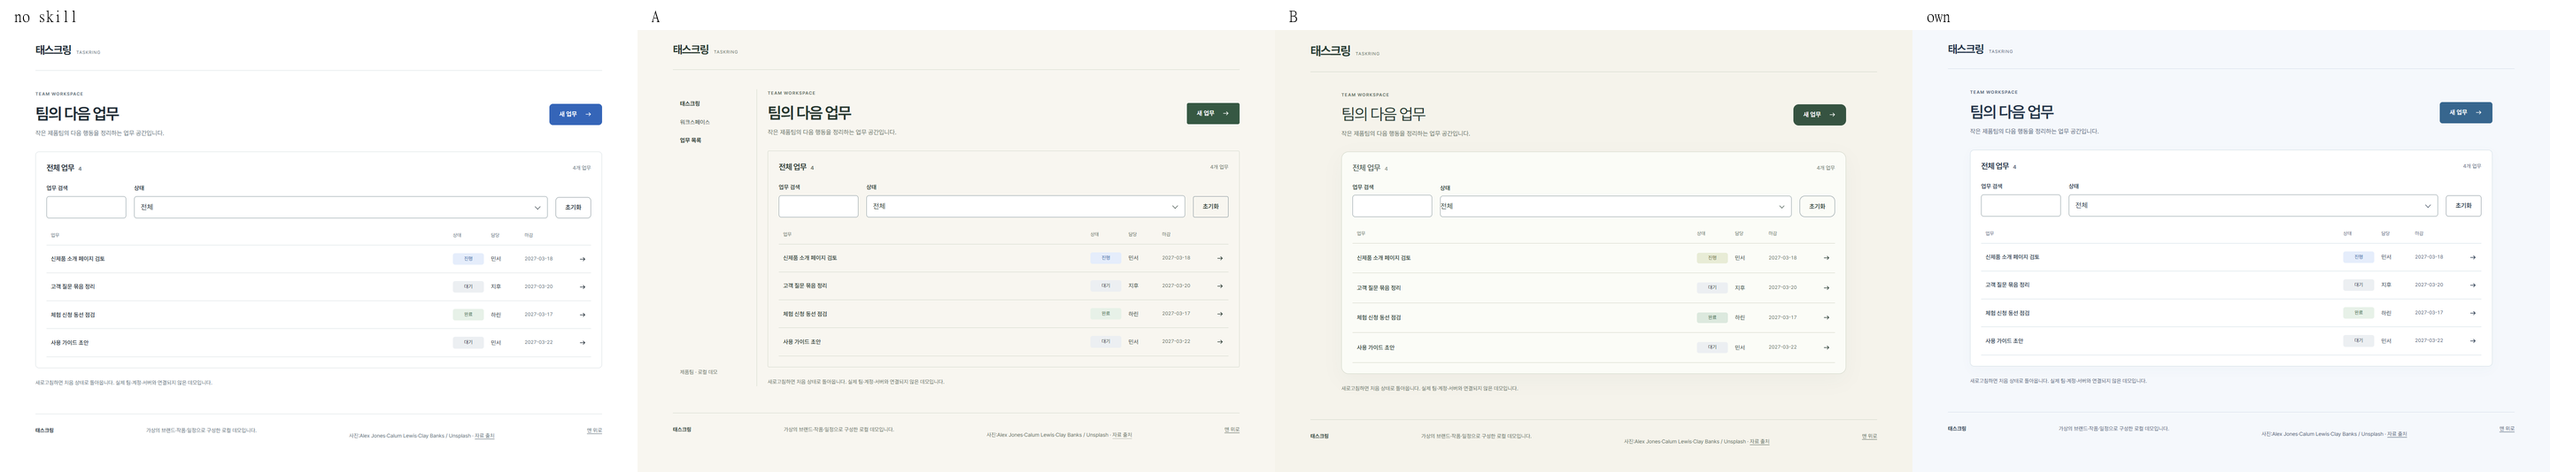
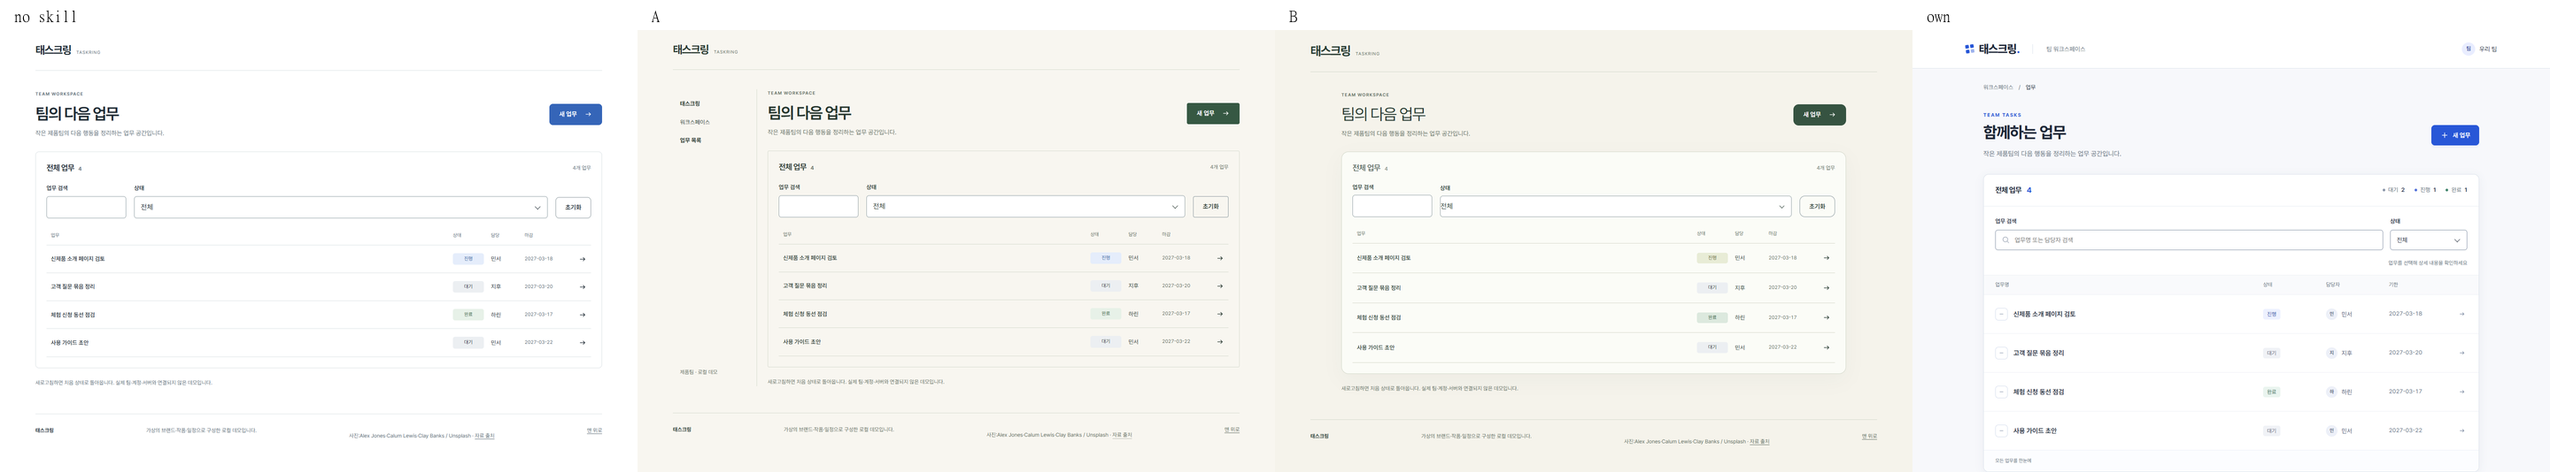
Restore the approved pre-publication SaaS layout and palette

diff --git a/results/own/saas/index.html b/results/own/saas/index.html
@@ -1,1 +1,1 @@
-<!doctype html><html lang="ko" data-motion><head><meta charset="utf-8"><meta name="viewport" content="width=device-width,initial-scale=1"><meta name="description" content="태스크링 — 작은 제품팀의 다음 행동을 정리하는 업무 공간입니다."><title>태스크링 — 해야 할 일을, 함께 끝내는 방식.</title><link rel="stylesheet" href="../../../shared/fonts/fonts.css"><link rel="stylesheet" href="../../../src/base.css"><link rel="stylesheet" href="../../../src/own.css"></head><body data-group="own" data-category="saas"><a href="#main" class="skip">본문으로 건너뛰기</a><header class="site-header"><a class="logo" href="#"><strong>태스크링</strong><span>TASKRING</span></a></header><main id="main"><div class="app-layout"><aside class="workspace-nav"><strong>태스크링</strong><span>워크스페이스</span><b>업무 목록</b><small>제품팀 · 로컬 데모</small></aside><section class="task-app"><div class="app-heading"><div><p class="eyebrow">TEAM WORKSPACE</p><h1>팀의 다음 업무</h1><p>작은 제품팀의 다음 행동을 정리하는 업무 공간입니다.</p></div><button id="add-task" class="btn">새 업무<svg class="icon arrow" viewBox="0 0 24 24" fill="none" stroke="currentColor" aria-hidden="true"><path d="M5 12h14m-5-5 5 5-5 5"/></svg></button></div><div class="task-panel"><div class="panel-heading"><h2>전체 업무 <span id="task-count">4</span></h2><p id="result-count" role="status"></p></div><div class="toolbar"><div class="field"><label for="search">업무 검색</label><input id="search" type="search" autocomplete="off" aria-describedby="search-error"><p class="error" id="search-error" role="alert"></p></div><div class="field"><label for="filter">상태</label><div class="select-wrap"><select id="filter" aria-describedby="filter-error"><option value="전체">전체</option><option value="대기">대기</option><option value="진행">진행</option><option value="완료">완료</option></select></div><p class="error" id="filter-error" role="alert"></p></div><button id="reset-filter" class="btn secondary">초기화</button></div><div class="task-head" aria-hidden="true"><span>업무</span><span>상태</span><span>담당</span><span>마감</span><span></span></div><div id="task-list"></div><div id="empty" class="empty" hidden><h3>일치하는 업무가 없습니다.</h3><p>검색어나 상태를 바꾸거나 초기화해 주세요.</p></div></div><p class="small muted">새로고침하면 처음 상태로 돌아옵니다. 실제 팀·계정·서버와 연결되지 않은 데모입니다.</p></section></div></main><footer class="site-footer"><strong>태스크링</strong><p>가상의 브랜드·작품·일정으로 구성한 로컬 데모입니다.</p><p class="small">사진:Alex Jones·Calum Lewis·Clay Banks / Unsplash · <a href="../../../docs/ASSETS.md" target="_blank" rel="noopener">자료 출처</a></p><a href="#main">맨 위로</a></footer><dialog id="detail-dialog" aria-labelledby="dialog-title"><div class="dialog-shell"><header class="dialog-head"><h2 id="dialog-title"></h2><button id="dialog-close" class="icon-button" aria-label="닫기" type="button"><svg class="icon" viewBox="0 0 24 24" fill="none" stroke="currentColor" aria-hidden="true"><path d="m6 6 12 12M6 18 18 6"/></svg></button></header><div id="dialog-body" class="dialog-body" tabindex="0"></div><footer id="dialog-actions" class="dialog-actions"></footer></div></dialog><script type="application/json" id="site-data">{"name":"태스크링","latin":"TASKRING","headline":"해야 할 일을, 함께 끝내는 방식.","intro":"작은 제품팀의 다음 행동을 정리하는 업무 공간입니다.","tasks":[{"id":"t1","title":"신제품 소개 페이지 검토","owner":"민서","status":"진행","date":"2027-03-18"},{"id":"t2","title":"고객 질문 묶음 정리","owner":"지후","status":"대기","date":"2027-03-20"},{"id":"t3","title":"체험 신청 동선 점검","owner":"하린","status":"완료","date":"2027-03-17"},{"id":"t4","title":"사용 가이드 초안","owner":"민서","status":"대기","date":"2027-03-22"}]}</script><script type="module" src="../../../src/app.js"></script></body></html>
+<!doctype html><html lang="ko"><head><meta charset="utf-8"><meta name="viewport" content="width=device-width,initial-scale=1"><title>태스크링 · 업무</title><link rel="stylesheet" href="../../../shared/fonts/fonts.css"><link rel="stylesheet" href="../../../src/base.css"><link rel="stylesheet" href="../../../src/saas.css"></head><body data-group="own" data-category="saas"><a class="skip" href="#main">업무 목록으로 건너뛰기</a><header class="topbar"><div class="topinner"><a class="brand" href="#main"><span class="brandmark" aria-hidden="true"><i></i><i></i><i></i><i></i></span>태스크링<span class="brand-dot">.</span></a><span class="workspace">팀 워크스페이스</span><span class="profile"><span class="avatar">팀</span>우리 팀</span></div></header><main id="main"><div class="breadcrumb">워크스페이스 <span aria-hidden="true">/</span><strong>업무</strong></div><section class="task-app"><div class="page-heading"><div><p class="eyebrow">TEAM TASKS</p><h1>함께하는 업무</h1><p class="intro">작은 제품팀의 다음 행동을 정리하는 업무 공간입니다.</p></div><button id="add-task" class="btn"><svg viewBox="0 0 24 24" fill="none" stroke="currentColor" aria-hidden="true"><path d="M12 5v14M5 12h14"/></svg><span>새 업무</span></button></div><div class="task-panel"><div class="panel-heading"><h2>전체 업무 <span id="task-count">4</span></h2><div id="state-counts" class="counts" aria-label="전체 업무 상태별 건수"></div></div><div class="toolbar"><div class="search-field field"><label for="search">업무 검색</label><div class="search-wrap"><svg viewBox="0 0 24 24" fill="none" stroke="currentColor" aria-hidden="true"><circle cx="10.5" cy="10.5" r="6.5"/><path d="m16 16 4 4"/></svg><input id="search" type="search" placeholder="업무명 또는 담당자 검색" autocomplete="off"></div></div><div class="status-field field"><label for="filter">상태</label><div class="select-wrap"><select id="filter"><option>전체</option><option>대기</option><option>진행</option><option>완료</option></select></div></div></div><div class="list-caption"><span id="result-count" role="status"></span><span>업무를 선택해 상세 내용을 확인하세요</span><button id="reset-filter" class="text-button">초기화</button></div><div class="task-head" aria-hidden="true"><span>업무명</span><span>상태</span><span>담당자</span><span>기한</span><span></span></div><div id="task-list"></div><div id="empty" class="empty" hidden><h3>일치하는 업무가 없어요</h3><p>검색어나 상태를 바꿔 다시 찾아보세요.</p></div><div class="panel-bottom">모든 업무를 한눈에</div></div><div class="local-notice"><div class="notice-group"><svg viewBox="0 0 24 24" fill="none" stroke="currentColor" aria-hidden="true"><circle cx="12" cy="12" r="9"/><path d="M12 11v6M12 7v1"/></svg><p>로컬 데모입니다. 실제 팀·계정·서버에 연결되지 않으며, 새로고침하면 초기화됩니다.</p></div></div></section><footer class="task-footer"><strong>태스크링</strong><span>우리 팀의 일, 조금 더 명료하게.</span></footer></main><dialog id="detail-dialog" aria-labelledby="dialog-title"><div class="dialog-shell"><header class="dialog-head"><h2 id="dialog-title"></h2><button id="dialog-close" class="icon-button" aria-label="닫기" type="button"><svg viewBox="0 0 24 24" fill="none" stroke="currentColor" aria-hidden="true"><path d="m6 6 12 12M6 18 18 6"/></svg></button></header><div id="dialog-body" class="dialog-body" tabindex="0"></div><footer id="dialog-actions" class="dialog-actions"></footer></div></dialog><script type="application/json" id="site-data">{"name":"태스크링","latin":"TASKRING","headline":"해야 할 일을, 함께 끝내는 방식.","intro":"작은 제품팀의 다음 행동을 정리하는 업무 공간입니다.","tasks":[{"id":"t1","title":"신제품 소개 페이지 검토","owner":"민서","status":"진행","date":"2027-03-18"},{"id":"t2","title":"고객 질문 묶음 정리","owner":"지후","status":"대기","date":"2027-03-20"},{"id":"t3","title":"체험 신청 동선 점검","owner":"하린","status":"완료","date":"2027-03-17"},{"id":"t4","title":"사용 가이드 초안","owner":"민서","status":"대기","date":"2027-03-22"}]}</script><script type="module" src="../../../src/app.js"></script></body></html>

diff --git a/src/saas.css b/src/saas.css
@@ -1,0 +1,12 @@
+/* 승인된 흰 상단바·파란 행동색·간결한 업무 비교 면을 유지한다. */
+body{--paper:#f7f8fb;--ink:#202939;--muted:#657184;--accent:#2857d7;--line:#dce2eb;--soft:#f0f3fa;background:var(--paper);color:var(--ink);font:16px/1.6 Pretendard,system-ui,sans-serif}
+.topbar{background:#fff;border-bottom:1px solid var(--line)}.topinner{max-width:1280px;margin:auto;padding:22px 40px;display:flex;align-items:center;gap:30px}.brand{display:flex;align-items:center;gap:9px;font-size:26px;font-weight:800;letter-spacing:-1.4px;text-decoration:none}.brand-dot{color:var(--accent);margin-left:-8px}.brandmark{display:grid;grid-template-columns:repeat(2,8px);gap:3px;transform:rotate(-8deg);margin-right:2px}.brandmark i{width:8px;height:8px;background:var(--accent);border-radius:2px}.brandmark i:last-child{opacity:.45}.workspace{border-left:1px solid var(--line);padding-left:30px;font-size:14px;color:var(--muted)}.profile{margin-left:auto;display:flex;align-items:center;gap:9px;font-size:14px}.avatar{display:grid;place-items:center;width:30px;height:30px;border-radius:50%;background:#e9edff;color:#3c52a2;font-size:12px;font-weight:600;flex:none}
+#main{max-width:1200px;margin:auto;padding:33px 40px 24px}.breadcrumb{display:flex;gap:12px;font-size:13px;color:var(--muted);margin-bottom:44px}.breadcrumb strong{font-weight:500;color:#333f52}.page-heading{display:flex;align-items:center;justify-content:space-between;gap:24px;margin-bottom:34px}.eyebrow{font-size:11px;letter-spacing:1.8px;font-weight:700;color:var(--accent);margin-bottom:7px}.page-heading h1{font-size:36px;line-height:1.3;letter-spacing:-1.2px;font-weight:750}.intro{margin-top:12px;color:var(--muted);font-size:15px}.btn{min-height:46px;padding:10px 19px;border-radius:8px;font-size:14px;line-height:1.5;gap:8px;font-weight:600;transition:background-color .15s,box-shadow .15s}.btn svg,.notice-group svg{width:20px;height:20px;flex:none;stroke-width:1.7}.btn:not(.secondary){box-shadow:0 3px 5px #2857d718}.btn:not(.secondary):hover{background:#1a43b6}.page-heading>.btn{flex:none}.btn.secondary{background:#fff;border-color:#8491a6}
+.task-panel{padding:0;background:#fff;border:1px solid var(--line);border-radius:12px;box-shadow:0 4px 20px #223d6510;margin:0}.panel-heading{margin:0;padding:24px 26px;border-bottom:1px solid #e8ecf2;gap:20px}.panel-heading h2{font-size:17px;font-weight:700}.panel-heading h2 span{margin-left:9px;color:var(--accent);font-size:17px}.counts{display:flex;gap:22px;font-size:13px;color:var(--muted);flex-wrap:wrap}.counts>span{display:inline-flex;gap:7px;align-items:center}.counts b{color:#334057;font-weight:650}.count-dot{display:block;width:6px;height:6px;border-radius:50%;background:#8c97a9;flex:none}.dot-1{background:#5573d9}.dot-2{background:#43866d}
+.toolbar{display:grid;grid-template-columns:minmax(0,1fr) 174px;padding:24px 26px 20px;gap:16px;margin:0;align-items:end}.toolbar .field{margin:0;min-width:0}.toolbar label{font-size:13px;margin-bottom:8px}.toolbar input,.toolbar select{min-height:46px;font-size:14px;border-color:#8491a6}.search-wrap{position:relative}.search-wrap svg{position:absolute;left:14px;top:50%;transform:translateY(-50%);width:20px;height:20px;color:#69788f}.search-wrap input{padding-left:43px}.list-caption{padding:0 26px 17px;display:flex;gap:20px;align-items:center;color:#657184;font-size:12px}.list-caption>span:nth-child(2){margin-left:auto}.list-caption .text-button{min-height:32px;padding:3px 0;font-size:12px}.task-head,.task-row{display:grid;grid-template-columns:minmax(0,1fr) 130px 130px 145px 20px;gap:12px;align-items:center}.task-head{background:#f9fafc;border-top:1px solid #edf0f5;border-bottom:1px solid #edf0f5;padding:12px 26px;font-size:12px;color:var(--muted)}.task-row{padding:24px 26px;min-height:88px;border-bottom:1px solid #edf0f5;background:#fff}.task-row:hover{background:#f7f9ff}.task-row .task-title{display:flex;align-items:center;gap:13px;font-weight:600;font-size:15px;min-width:0;overflow-wrap:anywhere}.task-title:before{content:'';width:26px;height:26px;border:1px solid #d5ddec;border-radius:7px;flex:none;background:linear-gradient(#8492aa,#8492aa) center/8px 1px no-repeat}.status{width:fit-content;padding:3px 9px;background:#f0f2f6;color:#596578;font-size:12px;line-height:1.5}.status-1{background:#edf1ff;color:#3755b1}.status-2{background:#eaf4ef;color:#386f59}.owner{font-size:14px;color:#536178;display:flex;gap:9px;align-items:center}.owner:before{content:'';width:26px;height:26px;border-radius:50%;background:#edf0f8;flex:none}.task-row time{font-size:13px;color:#66738a}.task-row>.arrow{width:16px;color:#7c8aa1}.panel-bottom{display:flex;gap:16px;flex-wrap:wrap;padding:15px 26px;font-size:11px;color:#657184;background:#fcfdff;border-radius:0 0 12px 12px}
+.local-notice{margin-top:24px;display:flex;justify-content:center}.notice-group{display:flex;align-items:flex-start;gap:8px;max-width:100%;width:fit-content;color:#687489;font-size:12px;line-height:1.6}.notice-group svg{height:1.6em;width:15px}.notice-group p{min-width:0}.task-footer{margin-top:72px;padding-top:22px;border-top:1px solid var(--line);display:flex;justify-content:space-between;gap:20px;font-size:12px;color:#657184}.task-footer strong{flex:none}.empty{padding:45px 20px;text-align:center}
+#detail-dialog{width:min(540px,calc(100% - 32px));background:#fff;border-color:var(--line);border-radius:14px}.dialog-head{padding:25px 26px 20px}.dialog-head h2{font-size:21px}.dialog-body{padding:23px 26px 26px}.dialog-body .field{margin-bottom:20px}.dialog-body .btn[type=submit]{margin-top:10px}.dialog-body .summary{background:#f7f8fb;padding:0 18px;border-radius:8px}.dialog-actions{background:#fff}.dialog-body label{display:block;font-size:13px;font-weight:600;margin-bottom:8px}
+@media(max-width:900px){.task-head,.task-row{grid-template-columns:minmax(0,1fr) 100px 90px 110px 16px;gap:10px}.counts{gap:13px}.topinner{padding:20px 28px}#main{padding-inline:28px}}
+@media(max-width:767px){.topinner{padding:17px 20px;gap:18px}.workspace{display:none}.profile{font-size:12px}.brand{font-size:24px}#main{padding:24px 20px}.breadcrumb{margin-bottom:30px}.page-heading{align-items:flex-start;flex-wrap:wrap;gap:20px;margin-bottom:26px}.page-heading h1{font-size:30px}.intro{font-size:14px}.panel-heading{padding:20px;align-items:flex-start;flex-direction:column;gap:15px}.counts{gap:18px}.toolbar{grid-template-columns:minmax(0,1fr);padding:20px;gap:15px}.list-caption{padding:0 20px 16px;flex-wrap:wrap}.list-caption>span:nth-child(2){display:none}.list-caption .text-button{margin-left:auto}.task-head{display:none}.task-row{grid-template-columns:minmax(0,1fr) auto;padding:21px 20px;gap:13px}.task-title{grid-column:1/-1}.status{grid-column:2;grid-row:2}.owner{grid-column:1;grid-row:2}.task-row time{grid-column:1;grid-row:3;margin-left:39px}.task-row>.arrow{display:none}.panel-bottom{padding-inline:20px}.local-notice{justify-content:flex-start}.task-footer{margin-top:48px;align-items:start}.dialog-head,.dialog-body{padding:20px}}
+@media(prefers-reduced-motion:no-preference){.btn:active{transform:translateY(1px)}#detail-dialog[open]{animation:saas-dialog .2s cubic-bezier(.22,.61,.36,1)}@keyframes saas-dialog{from{opacity:0;transform:translateY(6px)}to{opacity:1;transform:none}}}
+.owner:before{content:attr(data-initial);display:grid;place-items:center;font-size:11px;font-weight:600;color:#4c5873}.toolbar .select-wrap{width:100%}

diff --git a/results/b/brand/index.html b/results/b/brand/index.html
@@ -34,7 +34,7 @@ if(category==='brand'){
  document.addEventListener('click',e=>{const opener=e.target.closest('[data-open]'),save=e.target.closest('[data-save]');if(opener)detail(opener.dataset.open,opener);if(save){saved.has(save.dataset.save)?saved.delete(save.dataset.save):saved.add(save.dataset.save);count()}});$('#saved-open').onclick=e=>wishlist(e.currentTarget);
 }
 if(category==='saas'){
- function render(){const query=$('#search').value.trim().toLocaleLowerCase(),status=$('#filter').value,visible=tasks.filter(t=>(status==='전체'||t.status===status)&&`${t.title} ${t.owner}`.toLocaleLowerCase().includes(query));$('#task-count').textContent=tasks.length;$('#result-count').textContent=visible.length+'개 업무';$('#empty').hidden=visible.length>0;$('#task-list').innerHTML=visible.map(t=>`<button class="task-row" data-task="${t.id}"><span class="task-title">${escape(t.title)}</span><span class="status status-${['대기','진행','완료'].indexOf(t.status)}">${t.status}</span><span class="owner">${escape(t.owner)}</span><time>${t.date}</time>${arrow}</button>`).join('');$('#task-list').querySelectorAll('[data-task]').forEach(b=>b.onclick=()=>editTask(b.dataset.task,b))}
+ function render(){const query=$('#search').value.trim().toLocaleLowerCase(),status=$('#filter').value,visible=tasks.filter(t=>(status==='전체'||t.status===status)&&`${t.title} ${t.owner}`.toLocaleLowerCase().includes(query));$('#task-count').textContent=tasks.length;if($('#state-counts'))$('#state-counts').innerHTML=['대기','진행','완료'].map((state,i)=>`<span><i class="count-dot dot-${i}" aria-hidden="true"></i>${state}<b>${tasks.filter(t=>t.status===state).length}</b></span>`).join('');$('#result-count').textContent=visible.length+'개 업무';if($('#state-counts')){const filtered=query!==''||status!=='전체';$('#result-count').hidden=!filtered;$('#reset-filter').hidden=!filtered;}$('#empty').hidden=visible.length>0;$('#task-list').innerHTML=visible.map(t=>`<button class="task-row" data-task="${t.id}"><span class="task-title">${escape(t.title)}</span><span class="status status-${['대기','진행','완료'].indexOf(t.status)}">${t.status}</span><span class="owner" data-initial="${escape(t.owner.slice(0,1))}">${escape(t.owner)}</span><time>${t.date}</time>${arrow}</button>`).join('');$('#task-list').querySelectorAll('[data-task]').forEach(b=>b.onclick=()=>editTask(b.dataset.task,b))}
  function editTask(id,trigger){const t=tasks.find(t=>t.id===id);open(t.title,summary([['담당',t.owner],['마감',t.date]])+`<label for="task-status">업무 상태</label><div class="select-wrap"><select id="task-status">${['대기','진행','완료'].map(s=>`<option ${s===t.status?'selected':''}>${s}</option>`).join('')}</select></div>`,button('상태 저장','save-status'),trigger);$('#save-status').onclick=()=>{t.status=$('#task-status').value;render();close();$('#search').focus({preventScroll:true})}}
  $('#search').oninput=render;$('#filter').onchange=render;$('#reset-filter').onclick=()=>{$('#search').value='';$('#filter').value='전체';render()};$('#add-task').onclick=e=>{open('새 업무',`<form id="new-task" novalidate>${field('task-title','업무 제목','input')}${field('task-owner','담당','select',['민서','지후','하린'])}${field('new-status','업무 상태','select',['대기','진행','완료'])}${field('task-date','마감일','input',[],'date')}<button class="btn" type="submit">업무 추가</button></form>`,'',e.currentTarget);$('#new-task').onsubmit=e=>{e.preventDefault();if(!validate(e.currentTarget))return;tasks.push({id:'t'+Date.now(),title:$('#task-title').value.trim(),owner:$('#task-owner').value,status:$('#new-status').value,date:$('#task-date').value});$('#search').value='';$('#filter').value='전체';render();close()}};render();
 }

diff --git a/results/b/event/index.html b/results/b/event/index.html
@@ -34,7 +34,7 @@ if(category==='brand'){
  document.addEventListener('click',e=>{const opener=e.target.closest('[data-open]'),save=e.target.closest('[data-save]');if(opener)detail(opener.dataset.open,opener);if(save){saved.has(save.dataset.save)?saved.delete(save.dataset.save):saved.add(save.dataset.save);count()}});$('#saved-open').onclick=e=>wishlist(e.currentTarget);
 }
 if(category==='saas'){
- function render(){const query=$('#search').value.trim().toLocaleLowerCase(),status=$('#filter').value,visible=tasks.filter(t=>(status==='전체'||t.status===status)&&`${t.title} ${t.owner}`.toLocaleLowerCase().includes(query));$('#task-count').textContent=tasks.length;$('#result-count').textContent=visible.length+'개 업무';$('#empty').hidden=visible.length>0;$('#task-list').innerHTML=visible.map(t=>`<button class="task-row" data-task="${t.id}"><span class="task-title">${escape(t.title)}</span><span class="status status-${['대기','진행','완료'].indexOf(t.status)}">${t.status}</span><span class="owner">${escape(t.owner)}</span><time>${t.date}</time>${arrow}</button>`).join('');$('#task-list').querySelectorAll('[data-task]').forEach(b=>b.onclick=()=>editTask(b.dataset.task,b))}
+ function render(){const query=$('#search').value.trim().toLocaleLowerCase(),status=$('#filter').value,visible=tasks.filter(t=>(status==='전체'||t.status===status)&&`${t.title} ${t.owner}`.toLocaleLowerCase().includes(query));$('#task-count').textContent=tasks.length;if($('#state-counts'))$('#state-counts').innerHTML=['대기','진행','완료'].map((state,i)=>`<span><i class="count-dot dot-${i}" aria-hidden="true"></i>${state}<b>${tasks.filter(t=>t.status===state).length}</b></span>`).join('');$('#result-count').textContent=visible.length+'개 업무';if($('#state-counts')){const filtered=query!==''||status!=='전체';$('#result-count').hidden=!filtered;$('#reset-filter').hidden=!filtered;}$('#empty').hidden=visible.length>0;$('#task-list').innerHTML=visible.map(t=>`<button class="task-row" data-task="${t.id}"><span class="task-title">${escape(t.title)}</span><span class="status status-${['대기','진행','완료'].indexOf(t.status)}">${t.status}</span><span class="owner" data-initial="${escape(t.owner.slice(0,1))}">${escape(t.owner)}</span><time>${t.date}</time>${arrow}</button>`).join('');$('#task-list').querySelectorAll('[data-task]').forEach(b=>b.onclick=()=>editTask(b.dataset.task,b))}
  function editTask(id,trigger){const t=tasks.find(t=>t.id===id);open(t.title,summary([['담당',t.owner],['마감',t.date]])+`<label for="task-status">업무 상태</label><div class="select-wrap"><select id="task-status">${['대기','진행','완료'].map(s=>`<option ${s===t.status?'selected':''}>${s}</option>`).join('')}</select></div>`,button('상태 저장','save-status'),trigger);$('#save-status').onclick=()=>{t.status=$('#task-status').value;render();close();$('#search').focus({preventScroll:true})}}
  $('#search').oninput=render;$('#filter').onchange=render;$('#reset-filter').onclick=()=>{$('#search').value='';$('#filter').value='전체';render()};$('#add-task').onclick=e=>{open('새 업무',`<form id="new-task" novalidate>${field('task-title','업무 제목','input')}${field('task-owner','담당','select',['민서','지후','하린'])}${field('new-status','업무 상태','select',['대기','진행','완료'])}${field('task-date','마감일','input',[],'date')}<button class="btn" type="submit">업무 추가</button></form>`,'',e.currentTarget);$('#new-task').onsubmit=e=>{e.preventDefault();if(!validate(e.currentTarget))return;tasks.push({id:'t'+Date.now(),title:$('#task-title').value.trim(),owner:$('#task-owner').value,status:$('#new-status').value,date:$('#task-date').value});$('#search').value='';$('#filter').value='전체';render();close()}};render();
 }

diff --git a/results/b/local/index.html b/results/b/local/index.html
@@ -34,7 +34,7 @@ if(category==='brand'){
  document.addEventListener('click',e=>{const opener=e.target.closest('[data-open]'),save=e.target.closest('[data-save]');if(opener)detail(opener.dataset.open,opener);if(save){saved.has(save.dataset.save)?saved.delete(save.dataset.save):saved.add(save.dataset.save);count()}});$('#saved-open').onclick=e=>wishlist(e.currentTarget);
 }
 if(category==='saas'){
- function render(){const query=$('#search').value.trim().toLocaleLowerCase(),status=$('#filter').value,visible=tasks.filter(t=>(status==='전체'||t.status===status)&&`${t.title} ${t.owner}`.toLocaleLowerCase().includes(query));$('#task-count').textContent=tasks.length;$('#result-count').textContent=visible.length+'개 업무';$('#empty').hidden=visible.length>0;$('#task-list').innerHTML=visible.map(t=>`<button class="task-row" data-task="${t.id}"><span class="task-title">${escape(t.title)}</span><span class="status status-${['대기','진행','완료'].indexOf(t.status)}">${t.status}</span><span class="owner">${escape(t.owner)}</span><time>${t.date}</time>${arrow}</button>`).join('');$('#task-list').querySelectorAll('[data-task]').forEach(b=>b.onclick=()=>editTask(b.dataset.task,b))}
+ function render(){const query=$('#search').value.trim().toLocaleLowerCase(),status=$('#filter').value,visible=tasks.filter(t=>(status==='전체'||t.status===status)&&`${t.title} ${t.owner}`.toLocaleLowerCase().includes(query));$('#task-count').textContent=tasks.length;if($('#state-counts'))$('#state-counts').innerHTML=['대기','진행','완료'].map((state,i)=>`<span><i class="count-dot dot-${i}" aria-hidden="true"></i>${state}<b>${tasks.filter(t=>t.status===state).length}</b></span>`).join('');$('#result-count').textContent=visible.length+'개 업무';if($('#state-counts')){const filtered=query!==''||status!=='전체';$('#result-count').hidden=!filtered;$('#reset-filter').hidden=!filtered;}$('#empty').hidden=visible.length>0;$('#task-list').innerHTML=visible.map(t=>`<button class="task-row" data-task="${t.id}"><span class="task-title">${escape(t.title)}</span><span class="status status-${['대기','진행','완료'].indexOf(t.status)}">${t.status}</span><span class="owner" data-initial="${escape(t.owner.slice(0,1))}">${escape(t.owner)}</span><time>${t.date}</time>${arrow}</button>`).join('');$('#task-list').querySelectorAll('[data-task]').forEach(b=>b.onclick=()=>editTask(b.dataset.task,b))}
  function editTask(id,trigger){const t=tasks.find(t=>t.id===id);open(t.title,summary([['담당',t.owner],['마감',t.date]])+`<label for="task-status">업무 상태</label><div class="select-wrap"><select id="task-status">${['대기','진행','완료'].map(s=>`<option ${s===t.status?'selected':''}>${s}</option>`).join('')}</select></div>`,button('상태 저장','save-status'),trigger);$('#save-status').onclick=()=>{t.status=$('#task-status').value;render();close();$('#search').focus({preventScroll:true})}}
  $('#search').oninput=render;$('#filter').onchange=render;$('#reset-filter').onclick=()=>{$('#search').value='';$('#filter').value='전체';render()};$('#add-task').onclick=e=>{open('새 업무',`<form id="new-task" novalidate>${field('task-title','업무 제목','input')}${field('task-owner','담당','select',['민서','지후','하린'])}${field('new-status','업무 상태','select',['대기','진행','완료'])}${field('task-date','마감일','input',[],'date')}<button class="btn" type="submit">업무 추가</button></form>`,'',e.currentTarget);$('#new-task').onsubmit=e=>{e.preventDefault();if(!validate(e.currentTarget))return;tasks.push({id:'t'+Date.now(),title:$('#task-title').value.trim(),owner:$('#task-owner').value,status:$('#new-status').value,date:$('#task-date').value});$('#search').value='';$('#filter').value='전체';render();close()}};render();
 }

diff --git a/results/b/portfolio/index.html b/results/b/portfolio/index.html
@@ -34,7 +34,7 @@ if(category==='brand'){
  document.addEventListener('click',e=>{const opener=e.target.closest('[data-open]'),save=e.target.closest('[data-save]');if(opener)detail(opener.dataset.open,opener);if(save){saved.has(save.dataset.save)?saved.delete(save.dataset.save):saved.add(save.dataset.save);count()}});$('#saved-open').onclick=e=>wishlist(e.currentTarget);
 }
 if(category==='saas'){
- function render(){const query=$('#search').value.trim().toLocaleLowerCase(),status=$('#filter').value,visible=tasks.filter(t=>(status==='전체'||t.status===status)&&`${t.title} ${t.owner}`.toLocaleLowerCase().includes(query));$('#task-count').textContent=tasks.length;$('#result-count').textContent=visible.length+'개 업무';$('#empty').hidden=visible.length>0;$('#task-list').innerHTML=visible.map(t=>`<button class="task-row" data-task="${t.id}"><span class="task-title">${escape(t.title)}</span><span class="status status-${['대기','진행','완료'].indexOf(t.status)}">${t.status}</span><span class="owner">${escape(t.owner)}</span><time>${t.date}</time>${arrow}</button>`).join('');$('#task-list').querySelectorAll('[data-task]').forEach(b=>b.onclick=()=>editTask(b.dataset.task,b))}
+ function render(){const query=$('#search').value.trim().toLocaleLowerCase(),status=$('#filter').value,visible=tasks.filter(t=>(status==='전체'||t.status===status)&&`${t.title} ${t.owner}`.toLocaleLowerCase().includes(query));$('#task-count').textContent=tasks.length;if($('#state-counts'))$('#state-counts').innerHTML=['대기','진행','완료'].map((state,i)=>`<span><i class="count-dot dot-${i}" aria-hidden="true"></i>${state}<b>${tasks.filter(t=>t.status===state).length}</b></span>`).join('');$('#result-count').textContent=visible.length+'개 업무';if($('#state-counts')){const filtered=query!==''||status!=='전체';$('#result-count').hidden=!filtered;$('#reset-filter').hidden=!filtered;}$('#empty').hidden=visible.length>0;$('#task-list').innerHTML=visible.map(t=>`<button class="task-row" data-task="${t.id}"><span class="task-title">${escape(t.title)}</span><span class="status status-${['대기','진행','완료'].indexOf(t.status)}">${t.status}</span><span class="owner" data-initial="${escape(t.owner.slice(0,1))}">${escape(t.owner)}</span><time>${t.date}</time>${arrow}</button>`).join('');$('#task-list').querySelectorAll('[data-task]').forEach(b=>b.onclick=()=>editTask(b.dataset.task,b))}
  function editTask(id,trigger){const t=tasks.find(t=>t.id===id);open(t.title,summary([['담당',t.owner],['마감',t.date]])+`<label for="task-status">업무 상태</label><div class="select-wrap"><select id="task-status">${['대기','진행','완료'].map(s=>`<option ${s===t.status?'selected':''}>${s}</option>`).join('')}</select></div>`,button('상태 저장','save-status'),trigger);$('#save-status').onclick=()=>{t.status=$('#task-status').value;render();close();$('#search').focus({preventScroll:true})}}
  $('#search').oninput=render;$('#filter').onchange=render;$('#reset-filter').onclick=()=>{$('#search').value='';$('#filter').value='전체';render()};$('#add-task').onclick=e=>{open('새 업무',`<form id="new-task" novalidate>${field('task-title','업무 제목','input')}${field('task-owner','담당','select',['민서','지후','하린'])}${field('new-status','업무 상태','select',['대기','진행','완료'])}${field('task-date','마감일','input',[],'date')}<button class="btn" type="submit">업무 추가</button></form>`,'',e.currentTarget);$('#new-task').onsubmit=e=>{e.preventDefault();if(!validate(e.currentTarget))return;tasks.push({id:'t'+Date.now(),title:$('#task-title').value.trim(),owner:$('#task-owner').value,status:$('#new-status').value,date:$('#task-date').value});$('#search').value='';$('#filter').value='전체';render();close()}};render();
 }

diff --git a/results/b/professional/index.html b/results/b/professional/index.html
@@ -34,7 +34,7 @@ if(category==='brand'){
  document.addEventListener('click',e=>{const opener=e.target.closest('[data-open]'),save=e.target.closest('[data-save]');if(opener)detail(opener.dataset.open,opener);if(save){saved.has(save.dataset.save)?saved.delete(save.dataset.save):saved.add(save.dataset.save);count()}});$('#saved-open').onclick=e=>wishlist(e.currentTarget);
 }
 if(category==='saas'){
- function render(){const query=$('#search').value.trim().toLocaleLowerCase(),status=$('#filter').value,visible=tasks.filter(t=>(status==='전체'||t.status===status)&&`${t.title} ${t.owner}`.toLocaleLowerCase().includes(query));$('#task-count').textContent=tasks.length;$('#result-count').textContent=visible.length+'개 업무';$('#empty').hidden=visible.length>0;$('#task-list').innerHTML=visible.map(t=>`<button class="task-row" data-task="${t.id}"><span class="task-title">${escape(t.title)}</span><span class="status status-${['대기','진행','완료'].indexOf(t.status)}">${t.status}</span><span class="owner">${escape(t.owner)}</span><time>${t.date}</time>${arrow}</button>`).join('');$('#task-list').querySelectorAll('[data-task]').forEach(b=>b.onclick=()=>editTask(b.dataset.task,b))}
+ function render(){const query=$('#search').value.trim().toLocaleLowerCase(),status=$('#filter').value,visible=tasks.filter(t=>(status==='전체'||t.status===status)&&`${t.title} ${t.owner}`.toLocaleLowerCase().includes(query));$('#task-count').textContent=tasks.length;if($('#state-counts'))$('#state-counts').innerHTML=['대기','진행','완료'].map((state,i)=>`<span><i class="count-dot dot-${i}" aria-hidden="true"></i>${state}<b>${tasks.filter(t=>t.status===state).length}</b></span>`).join('');$('#result-count').textContent=visible.length+'개 업무';if($('#state-counts')){const filtered=query!==''||status!=='전체';$('#result-count').hidden=!filtered;$('#reset-filter').hidden=!filtered;}$('#empty').hidden=visible.length>0;$('#task-list').innerHTML=visible.map(t=>`<button class="task-row" data-task="${t.id}"><span class="task-title">${escape(t.title)}</span><span class="status status-${['대기','진행','완료'].indexOf(t.status)}">${t.status}</span><span class="owner" data-initial="${escape(t.owner.slice(0,1))}">${escape(t.owner)}</span><time>${t.date}</time>${arrow}</button>`).join('');$('#task-list').querySelectorAll('[data-task]').forEach(b=>b.onclick=()=>editTask(b.dataset.task,b))}
  function editTask(id,trigger){const t=tasks.find(t=>t.id===id);open(t.title,summary([['담당',t.owner],['마감',t.date]])+`<label for="task-status">업무 상태</label><div class="select-wrap"><select id="task-status">${['대기','진행','완료'].map(s=>`<option ${s===t.status?'selected':''}>${s}</option>`).join('')}</select></div>`,button('상태 저장','save-status'),trigger);$('#save-status').onclick=()=>{t.status=$('#task-status').value;render();close();$('#search').focus({preventScroll:true})}}
  $('#search').oninput=render;$('#filter').onchange=render;$('#reset-filter').onclick=()=>{$('#search').value='';$('#filter').value='전체';render()};$('#add-task').onclick=e=>{open('새 업무',`<form id="new-task" novalidate>${field('task-title','업무 제목','input')}${field('task-owner','담당','select',['민서','지후','하린'])}${field('new-status','업무 상태','select',['대기','진행','완료'])}${field('task-date','마감일','input',[],'date')}<button class="btn" type="submit">업무 추가</button></form>`,'',e.currentTarget);$('#new-task').onsubmit=e=>{e.preventDefault();if(!validate(e.currentTarget))return;tasks.push({id:'t'+Date.now(),title:$('#task-title').value.trim(),owner:$('#task-owner').value,status:$('#new-status').value,date:$('#task-date').value});$('#search').value='';$('#filter').value='전체';render();close()}};render();
 }

diff --git a/results/b/restaurant/index.html b/results/b/restaurant/index.html
@@ -34,7 +34,7 @@ if(category==='brand'){
  document.addEventListener('click',e=>{const opener=e.target.closest('[data-open]'),save=e.target.closest('[data-save]');if(opener)detail(opener.dataset.open,opener);if(save){saved.has(save.dataset.save)?saved.delete(save.dataset.save):saved.add(save.dataset.save);count()}});$('#saved-open').onclick=e=>wishlist(e.currentTarget);
 }
 if(category==='saas'){
- function render(){const query=$('#search').value.trim().toLocaleLowerCase(),status=$('#filter').value,visible=tasks.filter(t=>(status==='전체'||t.status===status)&&`${t.title} ${t.owner}`.toLocaleLowerCase().includes(query));$('#task-count').textContent=tasks.length;$('#result-count').textContent=visible.length+'개 업무';$('#empty').hidden=visible.length>0;$('#task-list').innerHTML=visible.map(t=>`<button class="task-row" data-task="${t.id}"><span class="task-title">${escape(t.title)}</span><span class="status status-${['대기','진행','완료'].indexOf(t.status)}">${t.status}</span><span class="owner">${escape(t.owner)}</span><time>${t.date}</time>${arrow}</button>`).join('');$('#task-list').querySelectorAll('[data-task]').forEach(b=>b.onclick=()=>editTask(b.dataset.task,b))}
+ function render(){const query=$('#search').value.trim().toLocaleLowerCase(),status=$('#filter').value,visible=tasks.filter(t=>(status==='전체'||t.status===status)&&`${t.title} ${t.owner}`.toLocaleLowerCase().includes(query));$('#task-count').textContent=tasks.length;if($('#state-counts'))$('#state-counts').innerHTML=['대기','진행','완료'].map((state,i)=>`<span><i class="count-dot dot-${i}" aria-hidden="true"></i>${state}<b>${tasks.filter(t=>t.status===state).length}</b></span>`).join('');$('#result-count').textContent=visible.length+'개 업무';if($('#state-counts')){const filtered=query!==''||status!=='전체';$('#result-count').hidden=!filtered;$('#reset-filter').hidden=!filtered;}$('#empty').hidden=visible.length>0;$('#task-list').innerHTML=visible.map(t=>`<button class="task-row" data-task="${t.id}"><span class="task-title">${escape(t.title)}</span><span class="status status-${['대기','진행','완료'].indexOf(t.status)}">${t.status}</span><span class="owner" data-initial="${escape(t.owner.slice(0,1))}">${escape(t.owner)}</span><time>${t.date}</time>${arrow}</button>`).join('');$('#task-list').querySelectorAll('[data-task]').forEach(b=>b.onclick=()=>editTask(b.dataset.task,b))}
  function editTask(id,trigger){const t=tasks.find(t=>t.id===id);open(t.title,summary([['담당',t.owner],['마감',t.date]])+`<label for="task-status">업무 상태</label><div class="select-wrap"><select id="task-status">${['대기','진행','완료'].map(s=>`<option ${s===t.status?'selected':''}>${s}</option>`).join('')}</select></div>`,button('상태 저장','save-status'),trigger);$('#save-status').onclick=()=>{t.status=$('#task-status').value;render();close();$('#search').focus({preventScroll:true})}}
  $('#search').oninput=render;$('#filter').onchange=render;$('#reset-filter').onclick=()=>{$('#search').value='';$('#filter').value='전체';render()};$('#add-task').onclick=e=>{open('새 업무',`<form id="new-task" novalidate>${field('task-title','업무 제목','input')}${field('task-owner','담당','select',['민서','지후','하린'])}${field('new-status','업무 상태','select',['대기','진행','완료'])}${field('task-date','마감일','input',[],'date')}<button class="btn" type="submit">업무 추가</button></form>`,'',e.currentTarget);$('#new-task').onsubmit=e=>{e.preventDefault();if(!validate(e.currentTarget))return;tasks.push({id:'t'+Date.now(),title:$('#task-title').value.trim(),owner:$('#task-owner').value,status:$('#new-status').value,date:$('#task-date').value});$('#search').value='';$('#filter').value='전체';render();close()}};render();
 }

diff --git a/results/b/saas/index.html b/results/b/saas/index.html
@@ -34,7 +34,7 @@ if(category==='brand'){
  document.addEventListener('click',e=>{const opener=e.target.closest('[data-open]'),save=e.target.closest('[data-save]');if(opener)detail(opener.dataset.open,opener);if(save){saved.has(save.dataset.save)?saved.delete(save.dataset.save):saved.add(save.dataset.save);count()}});$('#saved-open').onclick=e=>wishlist(e.currentTarget);
 }
 if(category==='saas'){
- function render(){const query=$('#search').value.trim().toLocaleLowerCase(),status=$('#filter').value,visible=tasks.filter(t=>(status==='전체'||t.status===status)&&`${t.title} ${t.owner}`.toLocaleLowerCase().includes(query));$('#task-count').textContent=tasks.length;$('#result-count').textContent=visible.length+'개 업무';$('#empty').hidden=visible.length>0;$('#task-list').innerHTML=visible.map(t=>`<button class="task-row" data-task="${t.id}"><span class="task-title">${escape(t.title)}</span><span class="status status-${['대기','진행','완료'].indexOf(t.status)}">${t.status}</span><span class="owner">${escape(t.owner)}</span><time>${t.date}</time>${arrow}</button>`).join('');$('#task-list').querySelectorAll('[data-task]').forEach(b=>b.onclick=()=>editTask(b.dataset.task,b))}
+ function render(){const query=$('#search').value.trim().toLocaleLowerCase(),status=$('#filter').value,visible=tasks.filter(t=>(status==='전체'||t.status===status)&&`${t.title} ${t.owner}`.toLocaleLowerCase().includes(query));$('#task-count').textContent=tasks.length;if($('#state-counts'))$('#state-counts').innerHTML=['대기','진행','완료'].map((state,i)=>`<span><i class="count-dot dot-${i}" aria-hidden="true"></i>${state}<b>${tasks.filter(t=>t.status===state).length}</b></span>`).join('');$('#result-count').textContent=visible.length+'개 업무';if($('#state-counts')){const filtered=query!==''||status!=='전체';$('#result-count').hidden=!filtered;$('#reset-filter').hidden=!filtered;}$('#empty').hidden=visible.length>0;$('#task-list').innerHTML=visible.map(t=>`<button class="task-row" data-task="${t.id}"><span class="task-title">${escape(t.title)}</span><span class="status status-${['대기','진행','완료'].indexOf(t.status)}">${t.status}</span><span class="owner" data-initial="${escape(t.owner.slice(0,1))}">${escape(t.owner)}</span><time>${t.date}</time>${arrow}</button>`).join('');$('#task-list').querySelectorAll('[data-task]').forEach(b=>b.onclick=()=>editTask(b.dataset.task,b))}
  function editTask(id,trigger){const t=tasks.find(t=>t.id===id);open(t.title,summary([['담당',t.owner],['마감',t.date]])+`<label for="task-status">업무 상태</label><div class="select-wrap"><select id="task-status">${['대기','진행','완료'].map(s=>`<option ${s===t.status?'selected':''}>${s}</option>`).join('')}</select></div>`,button('상태 저장','save-status'),trigger);$('#save-status').onclick=()=>{t.status=$('#task-status').value;render();close();$('#search').focus({preventScroll:true})}}
  $('#search').oninput=render;$('#filter').onchange=render;$('#reset-filter').onclick=()=>{$('#search').value='';$('#filter').value='전체';render()};$('#add-task').onclick=e=>{open('새 업무',`<form id="new-task" novalidate>${field('task-title','업무 제목','input')}${field('task-owner','담당','select',['민서','지후','하린'])}${field('new-status','업무 상태','select',['대기','진행','완료'])}${field('task-date','마감일','input',[],'date')}<button class="btn" type="submit">업무 추가</button></form>`,'',e.currentTarget);$('#new-task').onsubmit=e=>{e.preventDefault();if(!validate(e.currentTarget))return;tasks.push({id:'t'+Date.now(),title:$('#task-title').value.trim(),owner:$('#task-owner').value,status:$('#new-status').value,date:$('#task-date').value});$('#search').value='';$('#filter').value='전체';render();close()}};render();
 }

diff --git a/src/app.js b/src/app.js
@@ -21,7 +21,7 @@ if(category==='brand'){
  document.addEventListener('click',e=>{const opener=e.target.closest('[data-open]'),save=e.target.closest('[data-save]');if(opener)detail(opener.dataset.open,opener);if(save){saved.has(save.dataset.save)?saved.delete(save.dataset.save):saved.add(save.dataset.save);count()}});$('#saved-open').onclick=e=>wishlist(e.currentTarget);
 }
 if(category==='saas'){
- function render(){const query=$('#search').value.trim().toLocaleLowerCase(),status=$('#filter').value,visible=tasks.filter(t=>(status==='전체'||t.status===status)&&`${t.title} ${t.owner}`.toLocaleLowerCase().includes(query));$('#task-count').textContent=tasks.length;$('#result-count').textContent=visible.length+'개 업무';$('#empty').hidden=visible.length>0;$('#task-list').innerHTML=visible.map(t=>`<button class="task-row" data-task="${t.id}"><span class="task-title">${escape(t.title)}</span><span class="status status-${['대기','진행','완료'].indexOf(t.status)}">${t.status}</span><span class="owner">${escape(t.owner)}</span><time>${t.date}</time>${arrow}</button>`).join('');$('#task-list').querySelectorAll('[data-task]').forEach(b=>b.onclick=()=>editTask(b.dataset.task,b))}
+ function render(){const query=$('#search').value.trim().toLocaleLowerCase(),status=$('#filter').value,visible=tasks.filter(t=>(status==='전체'||t.status===status)&&`${t.title} ${t.owner}`.toLocaleLowerCase().includes(query));$('#task-count').textContent=tasks.length;if($('#state-counts'))$('#state-counts').innerHTML=['대기','진행','완료'].map((state,i)=>`<span><i class="count-dot dot-${i}" aria-hidden="true"></i>${state}<b>${tasks.filter(t=>t.status===state).length}</b></span>`).join('');$('#result-count').textContent=visible.length+'개 업무';if($('#state-counts')){const filtered=query!==''||status!=='전체';$('#result-count').hidden=!filtered;$('#reset-filter').hidden=!filtered;}$('#empty').hidden=visible.length>0;$('#task-list').innerHTML=visible.map(t=>`<button class="task-row" data-task="${t.id}"><span class="task-title">${escape(t.title)}</span><span class="status status-${['대기','진행','완료'].indexOf(t.status)}">${t.status}</span><span class="owner" data-initial="${escape(t.owner.slice(0,1))}">${escape(t.owner)}</span><time>${t.date}</time>${arrow}</button>`).join('');$('#task-list').querySelectorAll('[data-task]').forEach(b=>b.onclick=()=>editTask(b.dataset.task,b))}
  function editTask(id,trigger){const t=tasks.find(t=>t.id===id);open(t.title,summary([['담당',t.owner],['마감',t.date]])+`<label for="task-status">업무 상태</label><div class="select-wrap"><select id="task-status">${['대기','진행','완료'].map(s=>`<option ${s===t.status?'selected':''}>${s}</option>`).join('')}</select></div>`,button('상태 저장','save-status'),trigger);$('#save-status').onclick=()=>{t.status=$('#task-status').value;render();close();$('#search').focus({preventScroll:true})}}
  $('#search').oninput=render;$('#filter').onchange=render;$('#reset-filter').onclick=()=>{$('#search').value='';$('#filter').value='전체';render()};$('#add-task').onclick=e=>{open('새 업무',`<form id="new-task" novalidate>${field('task-title','업무 제목','input')}${field('task-owner','담당','select',['민서','지후','하린'])}${field('new-status','업무 상태','select',['대기','진행','완료'])}${field('task-date','마감일','input',[],'date')}<button class="btn" type="submit">업무 추가</button></form>`,'',e.currentTarget);$('#new-task').onsubmit=e=>{e.preventDefault();if(!validate(e.currentTarget))return;tasks.push({id:'t'+Date.now(),title:$('#task-title').value.trim(),owner:$('#task-owner').value,status:$('#new-status').value,date:$('#task-date').value});$('#search').value='';$('#filter').value='전체';render();close()}};render();
 }

diff --git a/docs/PALETTES.md b/docs/PALETTES.md
@@ -4,7 +4,7 @@
 
 | 시안 | 바탕 / 행동색 | 이번 선택의 이유 |
 |---|---|---|
-| SaaS | `#f5f8fc` / `#37668e` | 차분한 업무 바탕과 흰 목록 면을 구분한다. 기존 검색·업무 목록·상태 구성은 유지한다. |
+| SaaS | `#f7f8fb` / `#2857d7` | 승인된 흰 상단바·파란 버튼·중립 회색 바탕을 복원한다. 상태별 건수·넓은 검색·업무/상태/담당자/기한 비교를 유지하며 진행 요약·다가오는 업무는 추가하지 않는다. |
 | 브랜드 | `#fcfbfe` / `#72517f` | 노트·달력의 여러 색이 주인공이 되도록 바탕은 거의 흰색으로 두고 탐색·관심 표시에 절제된 자주색을 사용한다. |
 | 로컬 | `#f7fafb` / `#395f6b` | 따뜻한 흙 작업 사진과 차가운 읽기 면을 구분한다. 수업 안내·선택·신청에도 같은 청회색 역할을 연결한다. |
 | 식당 | `#f9f6ef` / `#9a573f` | 승인된 음식 사진·갈색 상단·크림색 메뉴와 예약의 관계를 유지한다. |
@@ -12,4 +12,4 @@
 | 전문 서비스 | `#f5f8fc` / `#365f8b` | 문서·서비스 범위의 정보 위계를 청회색 면과 진한 잉크 블루로 연결한다. 기존 녹색 문서/선택 면도 함께 바꾼다. |
 | 행사 | `#f4f7fa` / `#31566a` | 승인된 남색·호박색 포스터는 유지하고 이어지는 일정·신청 면을 차가운 중립색으로 연결한다. |
 
-바탕·본문·보조·선·행동·선택 면의 토큰은 `src/own.css`에서 함께 지정한다. 문서·카드·선택 상태의 하드코딩된 다른 계열이 남아 있는지 확인한다. 색 차이가 디자인 품질이나 스킬의 인과 효과를 입증하지는 않는다.
+소개형 자체 시안의 바탕·본문·보조·선·행동·선택 면은 `src/own.css`, 승인된 업무 화면의 토큰과 구성은 `src/saas.css`·`src/saas-view.mjs`에서 지정한다. 문서·카드·선택 상태의 하드코딩된 다른 계열이 남아 있는지 확인한다. 색 차이가 디자인 품질이나 스킬의 인과 효과를 입증하지는 않는다.

diff --git a/skills/korean-ui-design/references/categories/saas.md b/skills/korean-ui-design/references/categories/saas.md
@@ -10,6 +10,8 @@
 
 간결한 업무 목록이 승인된 화면은 검색·상태·담당자·기한의 비교 구성을 유지한다. 바탕은 브랜드·운영 맥락에 따라 중립 흰색이나 차분한 청회색 등을 검토하되, 공통 소개 템플릿의 크림 바탕을 그대로 상속하지 않는다. 배색을 바꾸기 위해 진행 요약·다가오는 업무·감성 문구를 추가하지 않는다. 행동색과 상태색의 역할을 분리하고 실제 업무 면의 대비를 확인한다.
 
+사용자가 이전 승인본을 지정하면 최신 템플릿을 추정해 적용하지 말고 해당 화면의 상단바·바탕/행동색·검색과 상태 필터의 폭·행의 비교 열·모바일 재배치를 실제 자료에서 확인한다. 검색은 긴 업무명 입력에 충분한 폭을, 짧은 상태 선택은 제한된 폭을 갖게 할 수 있다. 전체 업무 수와 상태별 건수는 한 곳에 모으고 필터 결과 수는 필터가 적용됐을 때만 보여 중복 집계를 줄인다. 아이콘과 안내 묶음은 PC에서 중앙, 모바일에서는 긴 문구 첫 줄을 기준으로 정렬한다.
+
 업무명·상태·담당자·기한 등 실제 판단에 필요한 열을 정한다. 보조 정보는 목록의 읽는 순서를 끊지 않게 배치한다. 브랜드 행동색과 대기/진행/완료/오류의 의미를 분리하고 보조 회색·상태 표식의 대비를 확인한다. 특정 보라색이나 밀도를 모든 앱에 적용하지 않는다.
 
 ## 조작과 모션
